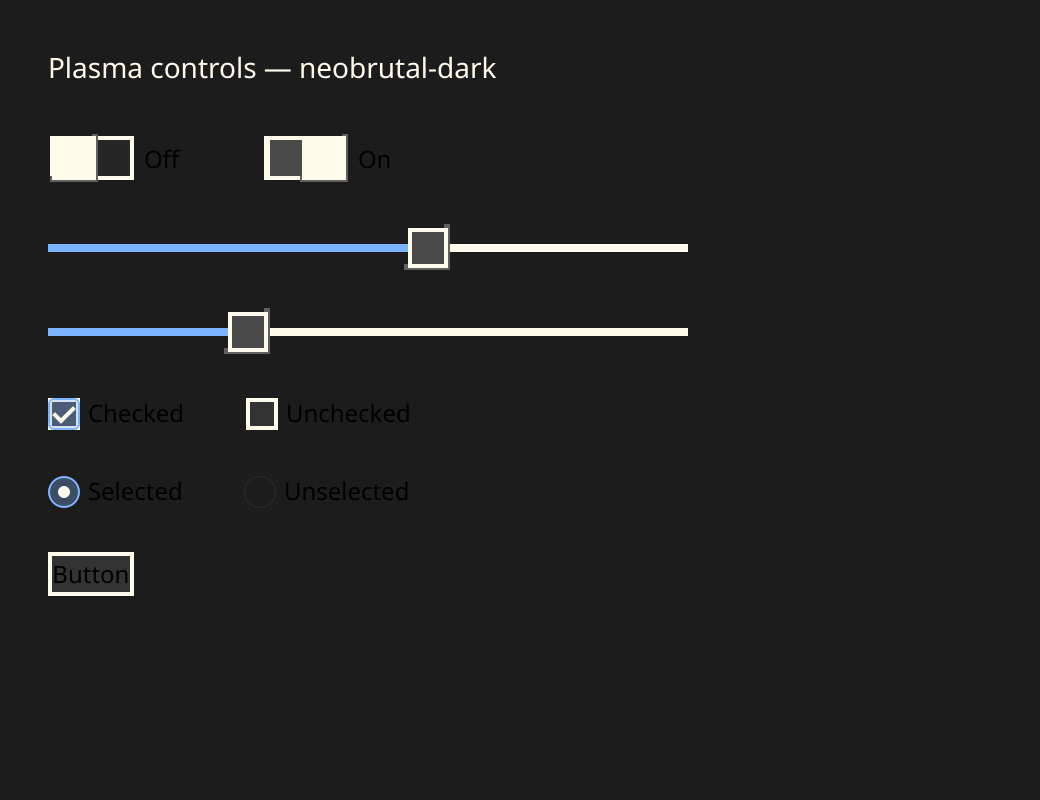
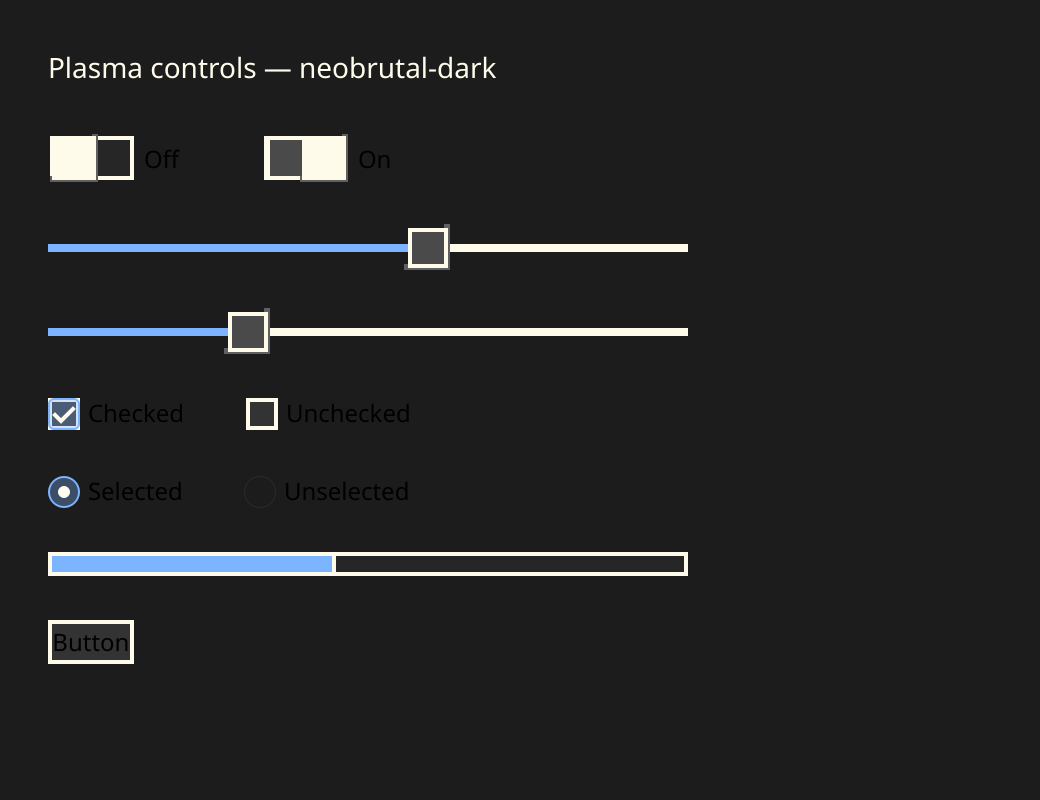
Plasma Style: tambah bar_meter_horizontal/vertical
OSD volume dan progress bar Plasma memakai widgets/bar_meter_*, yang belum
ada sehingga jatuh ke Breeze (bar pink membulat). Sekarang memakai track
gelap bergaris krem dengan isian biru, senada progress bar QtWidgets.
Perbarui juga preview kontrol Plasma dengan progress bar.

Changed region(s): [[0.0308, 0.6875, 0.6769, 0.8438], [0.1231, 0.7812, 0.1538, 0.8125]]

diff --git a/README.md b/README.md
@@ -22,8 +22,8 @@ sudah ada. Selain color scheme dan Plasma Style, repo ini berisi **Application S
 - **Window Decoration "Neobrutal Dark"** — plugin KDecoration3: bingkai krem 3px, titlebar abu
   gelap, tombol kotak berwarna (hijau minimize, biru maximize, pink close), dan hard shadow
   jendela.
-- **Plasma Style** — app menu, panel, popup, tooltip, **slider**, dan **switch/toggle** senada
-  (termasuk popup tray dan Quick Settings).
+- **Plasma Style** — app menu, panel, popup, tooltip, **slider**, **switch/toggle**, dan
+  **progress bar** senada (termasuk popup tray, OSD volume, dan Quick Settings).
 - **Color scheme, Konsole, dan Kvantum** (opsional) disertakan.
 - Semua warna aksen dibaca dari color scheme aktif (`kdeglobals`), jadi tema ikut berubah bila
   skema warnanya diganti.
